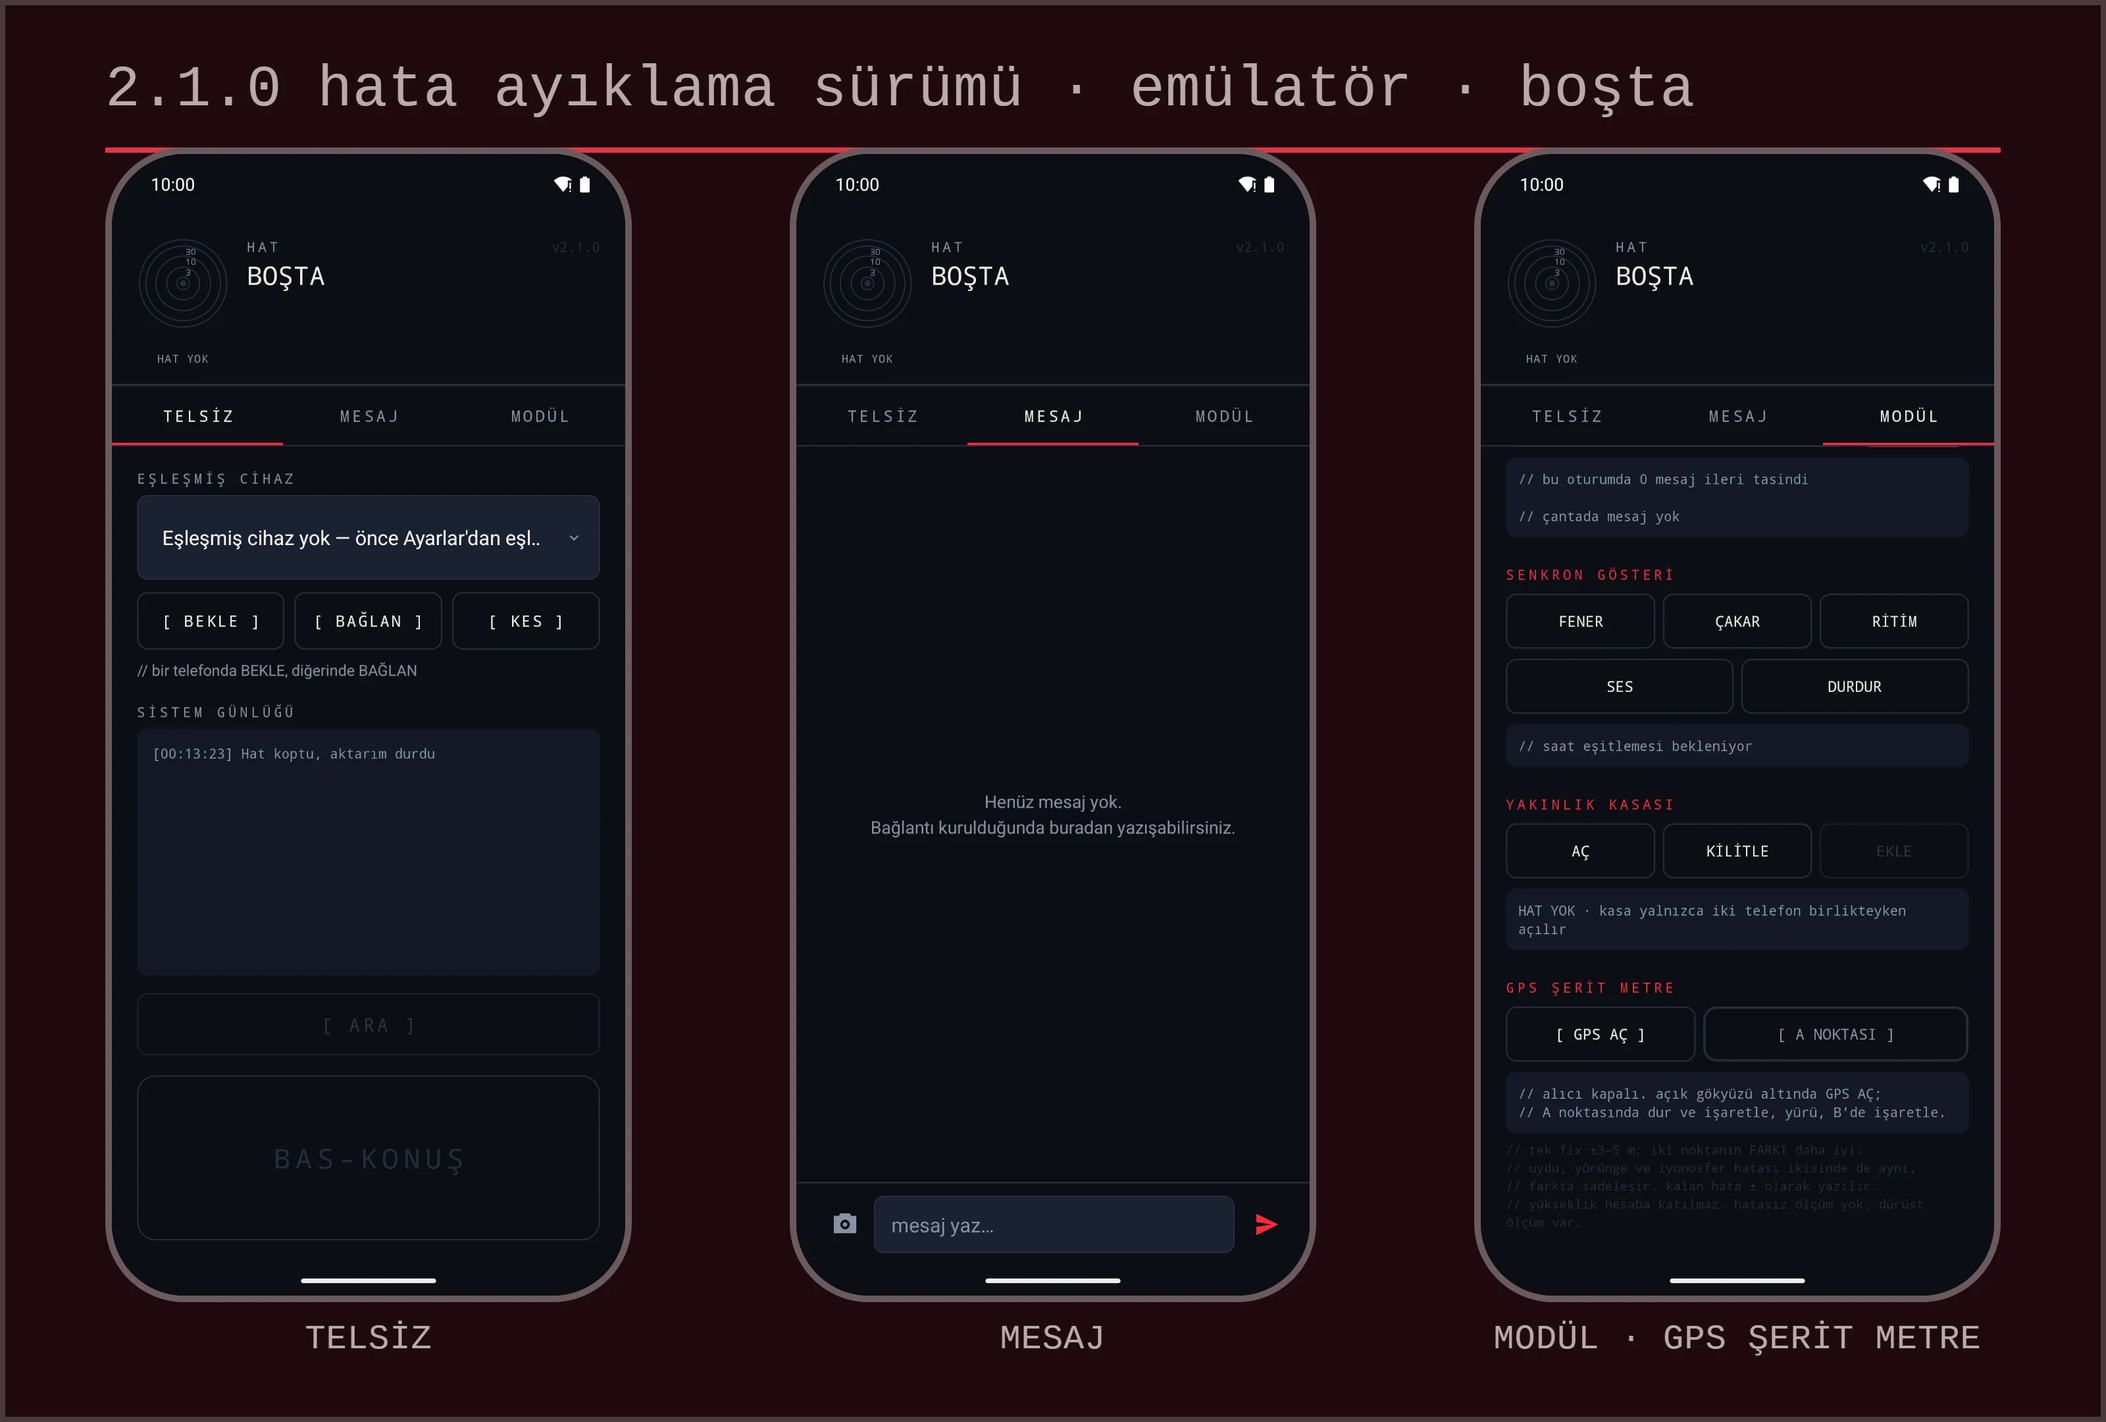
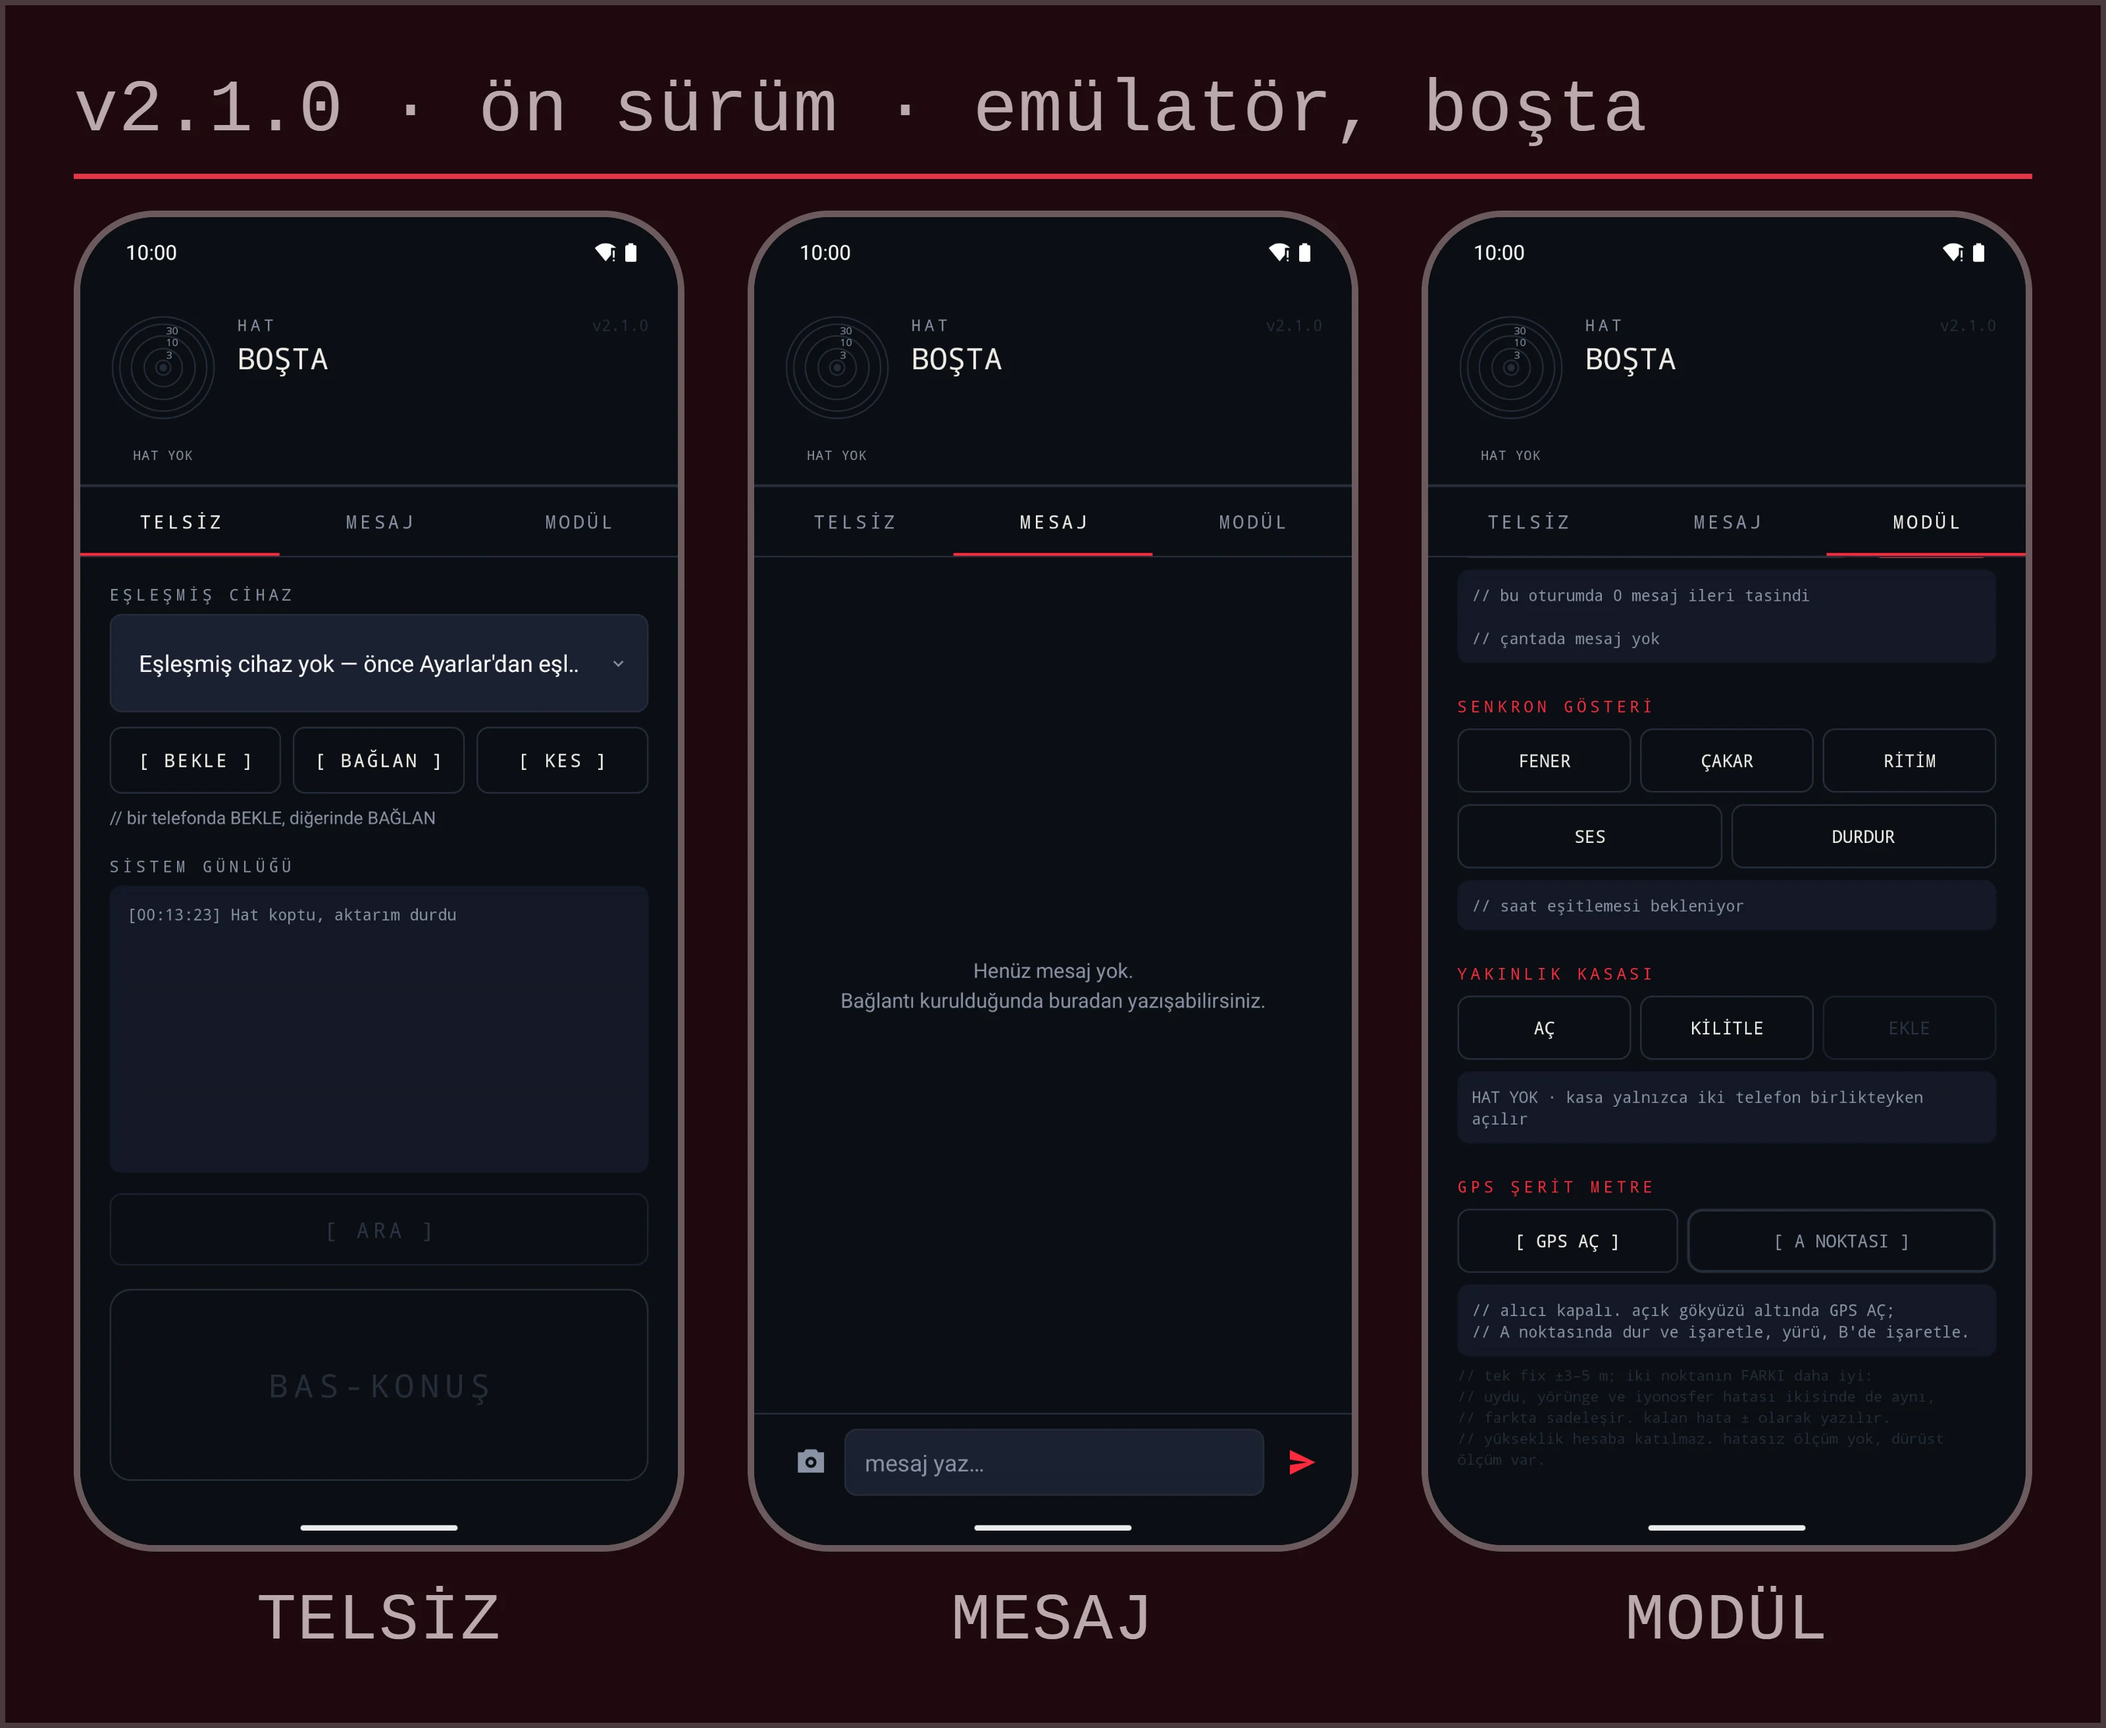
docs: lead with the three real screens, drop the repeated hero, one workflow badge, shorter status table
The three emulator captures are the first-screen visual with larger type and 24 px of air under the crimson rule. The separate hero strip and the unmeasured photo-transfer time are removed; the caption says only frames and labels were added. One github.com workflow badge; license and status are words in the status line.

diff --git a/README.md b/README.md
@@ -4,16 +4,16 @@ Push-to-talk, calls, messages and photos between two Android phones over Bluetoo
 
 LaserDeck, birbirine yakın iki Android telefon arasında internetsiz, sunucusuz ve hesapsız bas-konuş, arama, mesajlaşma ve fotoğraf aktarımı sağlayan Kotlin uygulamasıdır.
 
-**Durum:** v2.1.0 ön sürüm (pre-release). Birim testleri CI'da geçiyor; iki fiziksel telefonla kabul denemesi kayıtlı değil.
+**Durum:** v2.1.0 ön sürüm · MIT · birim testleri CI'da geçiyor · iki fiziksel telefonla kabul denemesi kayıtlı değil.
 
 <picture>
-  <source media="(prefers-color-scheme: dark)" srcset="docs/assets/laserdeck-hero-dark.webp">
-  <img src="docs/assets/laserdeck-hero-light.webp" alt="LaserDeck v2.1.0 pre-release: the app's idle talk screen, captured from a debug build on an Android emulator, beside the line Push-to-talk between two phones over Bluetooth." width="100%">
+  <source media="(prefers-color-scheme: dark)" srcset="docs/assets/laserdeck-screens-dark.webp">
+  <img src="docs/assets/laserdeck-screens-light.webp" alt="LaserDeck 2.1.0 uygulamasının üç gerçek ekranı: telsiz sekmesi, mesaj sekmesi ve GPS şerit metre bölümünün göründüğü modül sekmesi, hepsi boşta." width="100%">
 </picture>
 
-[![CI](https://img.shields.io/github/actions/workflow/status/Voyagerroc/LaserDeck/ci.yml?branch=main&label=CI&style=flat)](https://github.com/Voyagerroc/LaserDeck/actions/workflows/ci.yml)
-[![License](https://img.shields.io/github/license/Voyagerroc/LaserDeck?style=flat)](LICENSE)
-[![Status](https://img.shields.io/badge/status-pre--release-lightgrey?style=flat)](https://github.com/Voyagerroc/LaserDeck/releases/tag/v2.1.0)
+*Gerçek emülatör ekran görüntüleri (2.1.0 hata ayıklama sürümü, ikinci telefon bağlı değil). Ekran görüntüleri ham, yalnızca çerçeve ve etiket eklendi.*
+
+[![CI status](https://github.com/Voyagerroc/LaserDeck/actions/workflows/ci.yml/badge.svg)](https://github.com/Voyagerroc/LaserDeck/actions/workflows/ci.yml)
 
 ## İndirme
 
@@ -23,30 +23,25 @@ Sürümdeki APK, var olan genel dağıtımdan değiştirilmeden alınmıştır; 
 
 ## Neler var, neler denendi
 
-Aşağıdaki tablo kaynakta bulunan işlevleri ve CI'daki birim testlerinin neyi kapsadığını gösterir. Hiçbir satır iki fiziksel telefonla denenmiş sayılmaz: [docs/RELEASE.md](docs/RELEASE.md) bu sürüm için fiziksel cihaz kabul testi yapılmadığını kaydeder, [android/README.md](android/README.md) ise iki telefonlu denemeyi bir plan olarak anlatır.
+Tablodaki her işlev kaynakta bulunur; ikinci sütun CI'daki birim testlerinin neyi kapsadığını gösterir. Hiçbir satır iki fiziksel telefonla denenmiş sayılmaz: [docs/RELEASE.md](docs/RELEASE.md) bu sürüm için fiziksel cihaz kabul testi yapılmadığını kaydeder, [android/README.md](android/README.md) ise iki telefonlu denemeyi bir plan olarak anlatır.
 
-| Özellik | Kaynakta | Birim testi |
-|---|---|---|
-| Bas-konuş (yarı çift yönlü) | Var | Yok. Yalnızca ortak çerçeve katmanı (`LinkFrame`) testli |
-| Tam çift yönlü sesli arama (çaldırma, ahize/hoparlör, donanım yankı iptali ve gürültü bastırma) | Var | Yok |
-| Mesajlaşma: teslim onayı, çevrimdışı kuyruk, cihaz içi geçmiş | Var | Var: kuyruk, onay, yeniden gönderim, tekrar eden kimlik, geçmiş (`MessengerTest`) |
-| Fotoğraf aktarımı: orijinal baytlar, SHA-256 doğrulamalı | Var | Yok |
-| Yakınlık radarı: iki telefon arası mesafe tahmini (Android 12 ve üstü) | Var | Yok |
-| GPS şerit metre: tek telefonla A'dan B'ye mesafe, ± bandıyla | Var | Kısmen: jeodezi hesabı ve fix ortalaması (`GeodesyTest`); GPS alıcısı testli değil |
-| Uygulama içi güncelleme denetimi | Var | Yok |
+| İşlev | Birim testi |
+|---|---|
+| Bas-konuş (yarı çift yönlü) | Yok; yalnızca `LinkFrame` testli |
+| Tam çift yönlü sesli arama (yankı iptali, gürültü bastırma) | Yok |
+| Mesajlaşma (teslim onayı, çevrimdışı kuyruk, geçmiş) | Var (`MessengerTest`) |
+| Fotoğraf aktarımı (orijinal bayt, SHA-256) | Yok |
+| Yakınlık radarı (Android 12 ve üstü) | Yok |
+| GPS şerit metre (± bandıyla) | Kısmen: hesap testli, alıcı değil (`GeodesyTest`) |
+| Uygulama içi güncelleme denetimi | Yok |
 
 **Taşıyıcı:** Bluetooth Classic RFCOMM. İnternet, Wi-Fi, hücresel veri, sunucu ve hesap kullanılmaz. Uygulamanın yaptığı tek ağ çağrısı sürüm denetimidir ve hiçbir kullanıcı verisi taşımaz. Konum yalnızca GPS şerit metre modülü açıkken okunur ve cihazdan çıkmaz.
 
-**Sınırlar.** Menzil görüş hattında yaklaşık 10–30 m beklenir; 4 MB'lık bir fotoğrafın yaklaşık iki dakika süreceği tahmin edilir. İkisi de radyonun fiziğine dayanan beklentidir, bu sürümde iki telefonla ölçülmedi. Donanım yankı iptali cihaza bağlıdır; yoksa arama ekranı bunu söyler. Radar mesafe ölçer, yön ölçmez: tek antenle yön üretilemez, hedef nokta değil halka olarak çizilir. GPS şerit metre tüketici alıcısının fiziğine bağlıdır: tek fix ±3–5 m; iki noktanın farkı daha iyidir ama hatasız değildir, her sonuç ± bandıyla yazılır.
+**Sınırlar.** Menzil görüş hattında yaklaşık 10–30 m beklenir. Bu, radyonun fiziğine dayanan bir beklentidir; bu sürümde iki telefonla ölçülmedi. Donanım yankı iptali cihaza bağlıdır; yoksa arama ekranı bunu söyler. Radar mesafe ölçer, yön ölçmez: tek antenle yön üretilemez, hedef nokta değil halka olarak çizilir. GPS şerit metre tüketici alıcısının fiziğine bağlıdır: tek fix ±3–5 m; iki noktanın farkı daha iyidir ama hatasız değildir, her sonuç ± bandıyla yazılır.
 
-## Ekran görüntüleri
+## Görüntüler hakkında
 
-<picture>
-  <source media="(prefers-color-scheme: dark)" srcset="docs/assets/laserdeck-screens-dark.webp">
-  <img src="docs/assets/laserdeck-screens-light.webp" alt="LaserDeck 2.1.0 uygulamasının üç gerçek ekranı: telsiz sekmesi, mesaj sekmesi ve GPS şerit metre bölümünün göründüğü modül sekmesi, hepsi boşta." width="100%">
-</picture>
-
-Gerçek ekranlar: 2.1.0 hata ayıklama sürümü, Android emülatörü, boşta, çünkü ikinci telefon bağlı değildi. Hiçbir görüntü düzenlenmedi. Uygulamanın tek ve sabit bir koyu teması vardır; arayüz Türkçedir. GPS şerit metre kapalıdır, görüntüde ölçüm yoktur. `android/play/` altındaki mağaza görselleri üretilmiş tasarımlardır, cihaz görüntüsü değildir.
+Üstteki üç ekran gerçektir: 2.1.0 hata ayıklama sürümü, Android emülatörü, boşta, çünkü ikinci telefon bağlı değildi. Çerçeve ve etiketler sonradan eklendi, ekran görüntüleri değiştirilmedi. Uygulamanın tek ve sabit bir koyu teması vardır; arayüz Türkçedir. GPS şerit metre kapalıdır, görüntüde ölçüm yoktur. `android/play/` altındaki mağaza görselleri üretilmiş tasarımlardır, cihaz görüntüsü değildir.
 
 ## Derleme
 
